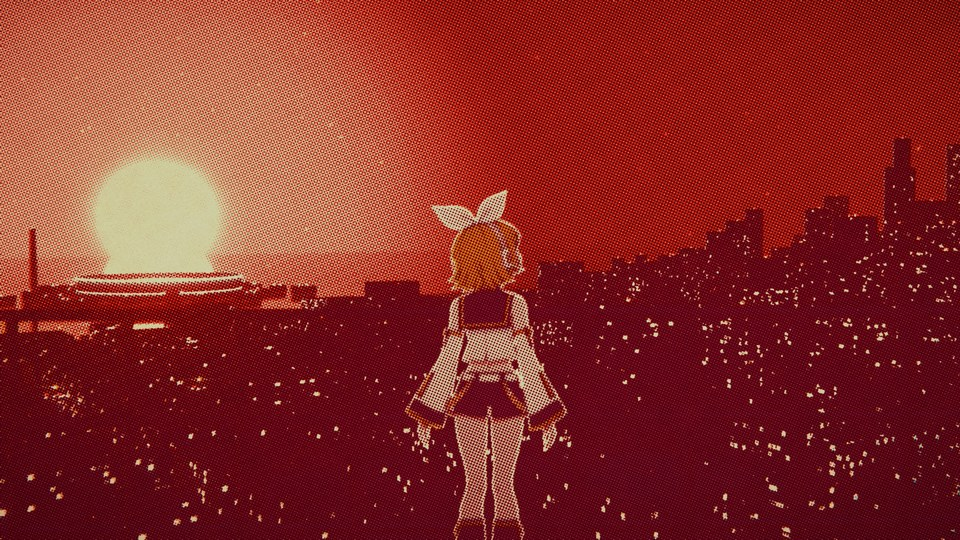
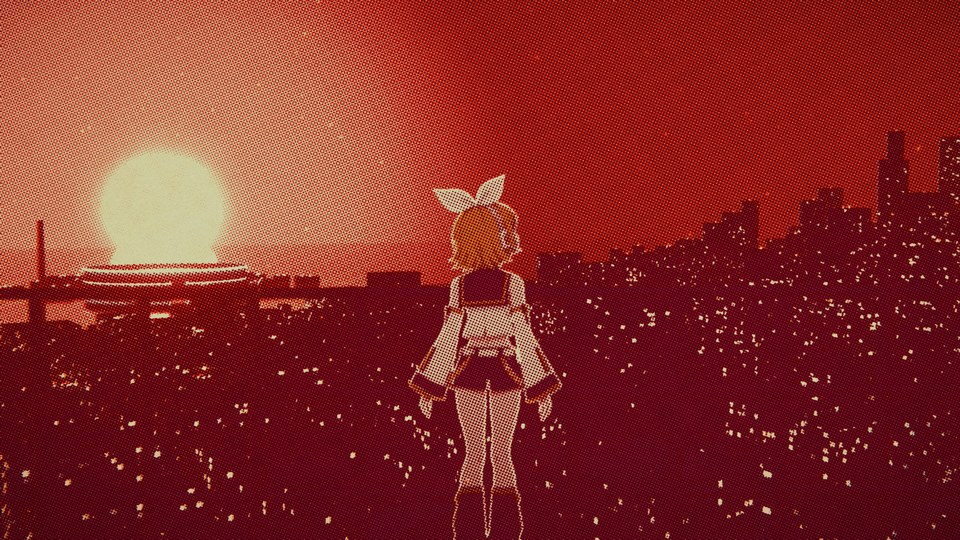
Refresh the README gallery from the thirteenth cut; match the captions
The stills kept the times of the first version while the film changed under
them: the first showed her window from outside under a caption about her
sitting on the bed, the lighter still came from before the strike, and two
captions described a tear and lyric bubbles that are not in the pictures (the
gallery leaves the lyrics out). The first still is now her lying awake once
the camera has found her, the second the strike itself, the hero's fourth
tile the TV again, and every caption says what its picture shows.

diff --git a/src/tools/make_gallery.py b/src/tools/make_gallery.py
@@ -18,8 +18,8 @@ sys.path.insert(0, str(ROOT / "src" / "comp"))
 OUT = ROOT / "docs" / "images"
 FPS = 24
 
-HERO = [12.0, 88.0, 117.6, 194.8, 233.5, 322.9]          # seconds, read left to right, top to bottom
-STILLS = [19.6, 43.6, 52.6, 79.0, 104.2, 134.0, 207.8, 262.4, 312.0]
+HERO = [12.0, 88.0, 117.6, 194.1, 233.5, 322.9]          # seconds, read left to right, top to bottom
+STILLS = [27.3, 44.042, 52.6, 79.0, 104.2, 134.0, 207.8, 262.4, 312.0]
 LOOPS = {"loop_opening": (6.2, 2.6), "loop_chorus": (77.6, 2.6), "loop_bridge": (192.6, 2.1)}
 # before / after pairs for the making-of notes: the seventh cut's frame (kept in work/qc/before7) beside
 # the same shot of this film (at t_after, after any dissolve into it), both cropped to the part the note

diff --git a/README.md b/README.md
@@ -1,5 +1,5 @@
 <p align="center">
-  <img src="docs/images/hero.jpg" alt="《炉心融解》MV 的画面：片名下的夜城、炉心、黄昏、电视里的铃、清晨" width="100%">
+  <img src="docs/images/hero.jpg" alt="《炉心融解》MV 的画面：片名下的夜城、炉心、黄昏、电视里的铃、黑暗里的床、清晨" width="100%">
 </p>
 
 <h1 align="center">MeltDown</h1>
@@ -78,14 +78,14 @@
 
 <table>
   <tr>
-    <td width="33%"><img src="docs/images/stills/01.jpg" alt="凌晨两点，她抱着膝坐在床上"></td>
+    <td width="33%"><img src="docs/images/stills/01.jpg" alt="凌晨两点，她睁着眼躺在床上"></td>
     <td width="33%"><img src="docs/images/stills/02.jpg" alt="打火机的火石轮擦出火花"></td>
-    <td width="33%"><img src="docs/images/stills/03.jpg" alt="侧脸，眼角有一滴泪"></td>
+    <td width="33%"><img src="docs/images/stills/03.jpg" alt="她蜷倒在床边的地板上，胃里透出光"></td>
   </tr>
   <tr>
     <td width="33%"><img src="docs/images/stills/04.jpg" alt="漂浮在炉心里"></td>
     <td width="33%"><img src="docs/images/stills/05.jpg" alt="黄昏的阳台，城市在脚下"></td>
-    <td width="33%"><img src="docs/images/stills/06.jpg" alt="话语从唇边化作气泡"></td>
+    <td width="33%"><img src="docs/images/stills/06.jpg" alt="侧脸，身后是夜里的云和城市"></td>
   </tr>
   <tr>
     <td width="33%"><img src="docs/images/stills/07.jpg" alt="满墙的电视里都是她"></td>
